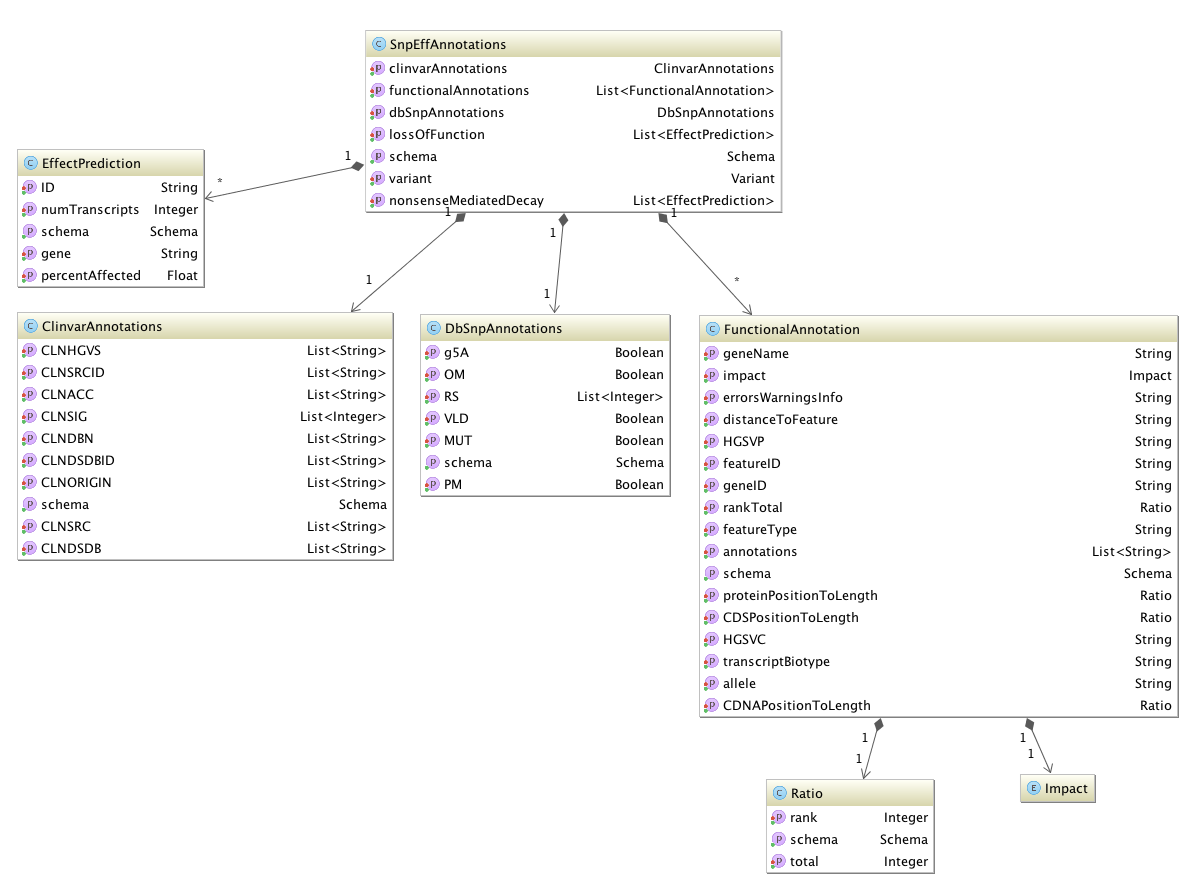
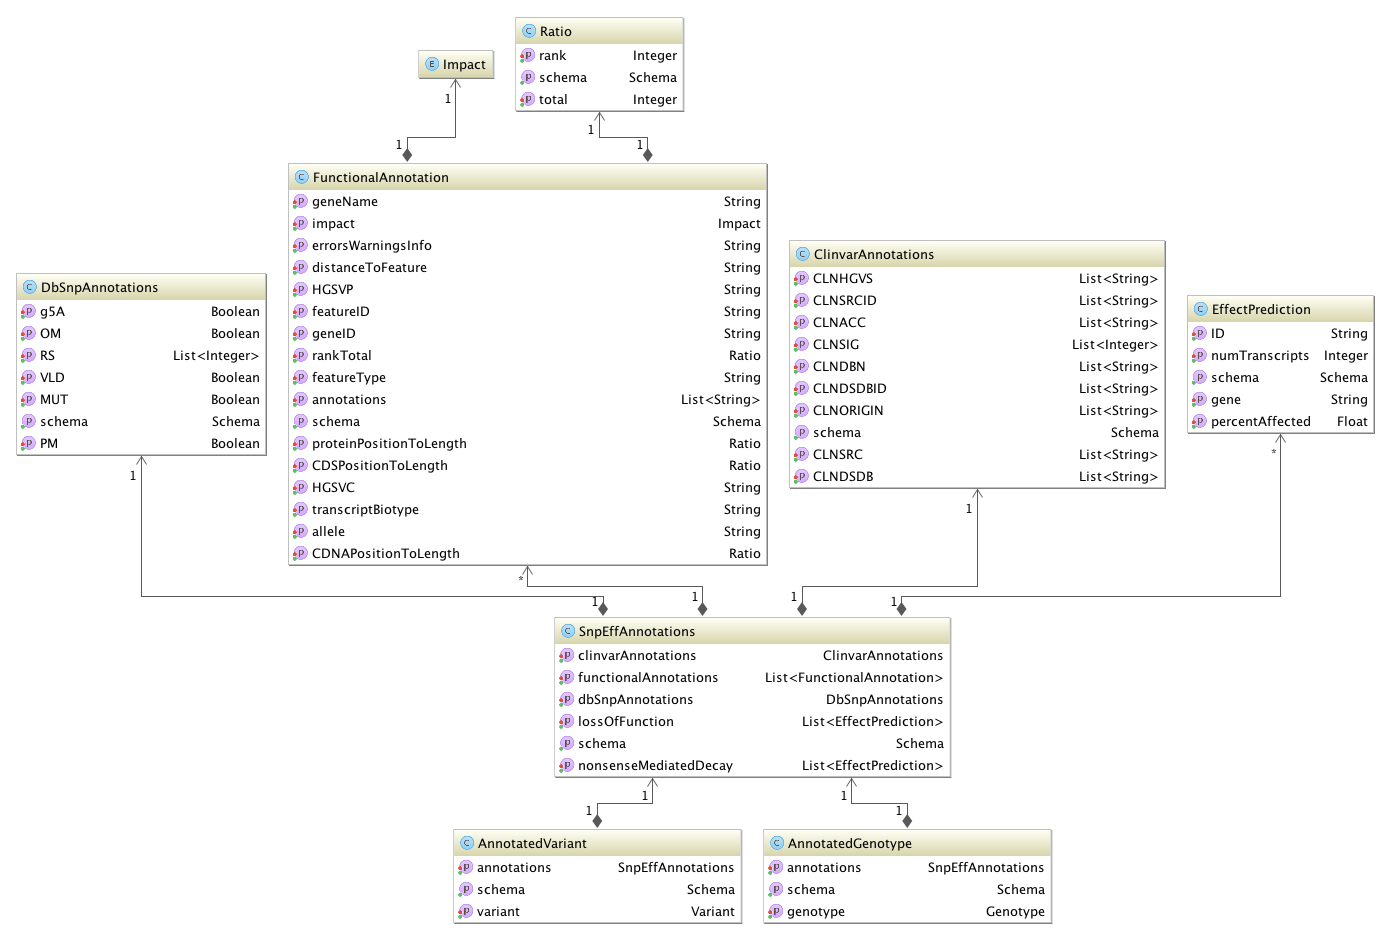
updated documentation

diff --git a/README.md b/README.md
@@ -27,7 +27,15 @@ z.load("org.tmoerman:adam-fx_2.10:0.2.1")
 
 ## Data model
 
-Class diagram distilled from the Java classes generated from the Avro schema definition.  
+The `AnnotatedVariant` and `AnnotatedGenotype` classes are the "connector" types between the Adam types and the SnpEffAnnotations.
+
+Class diagrams distilled from the Java classes generated from the Avro schema definition. 
+
+##### Overview:
+
+![Class diagram](img/adam_fx_small_diagram.png?raw=true)
+
+##### With properties:
 
 ![Class diagram](img/adam_fx_class_diagram.png?raw=true)
 
@@ -61,31 +69,16 @@ import org.tmoerman.adam.fx.snpeff.SnpEffContext
 @transient val ec = new SnpEffContext(sc)
 ```
     
-##### Loading the SnpEffAnnotations
+##### Loading Variants or Genotypes
 
-There are two ways to load the SnpEff annotations from an annotated .vcf file. 
-
-We can either load the raw Avro data structures:
+Variants with SnpEffAnnotations:
 
 ```scala
-val annotations: RDD[SnpEffAnnotations] = ec.loadSnpEffAnnotations(annotatedVcf)
+val annotatedVariants: RDD[AnnotatedVariant] = ec.loadAnnotatedVariants(annotatedVcf)
 ```
 
-Or we can load as rich Scala-esque data types, arguably the preferable data types to work with.
+Or Genotypes with SnpEffAnnotations
 
 ```scala
-val variants: RDD[VariantContextWithSnpEffAnnotations] = ec.loadVariantsWithSnpEffAnnotations(annotatedVcf)
+val annotatedGenotypes: RDD[AnnotatedGenotype] = ec.loadAnnotatedGenotypes(annotatedVcf)
 ```
-
-The methods are capable to load `SnpEffAnnotations` from Parquet storage. By convention, the Parquet file names have
-suffix ".adam". We can save an `RDD[SnpEffAnnotations]` to Parquet in the usual Adam way, by importing the
-ADAMContext implicit conversions and calling `adamParquetSave(fileName)` on an RDD of Avro data types:
- 
-```scala
-import org.bdgenomics.adam.rdd.ADAMContext._
-
-annotations.adamParquetSave("/my/data/dir/annotations.adam")
-```
-
-Note that if the `loadVariantsWithSnpEffAnnotations` is used to load data from Parquet, the genotypes and databases 
-are absent because they are not part of the raw `SnpEffAnnotations` data type.
